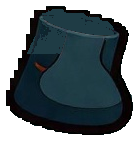
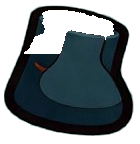
Pièces v5 du plongeur : bords lisses sans liseré, manches ouvertes sur un poignet plein, bottes et short ouverts ; script de construction complet
Claude-Session: https://claude.ai/code/session_01PeDNHubJsgLWsEd1rm9ZPJ

diff --git a/scripts/construire_plongeur.py b/scripts/construire_plongeur.py
@@ -1,0 +1,68 @@
+"""Construit les pièces finales du plongeur à partir de la planche découpée."""
+import sys, os, shutil
+import numpy as np
+from PIL import Image
+sys.path.insert(0, os.path.dirname(__file__))
+from ouvertures import masque_ouverture, morph
+from genou import couper
+
+src, dst = sys.argv[1], sys.argv[2]
+os.makedirs(dst, exist_ok=True)
+noms = {0: "tete", 1: "torse", 2: "bras_arriere", 3: "bras_avant", 4: "ceinture", 5: "main_arriere",
+        6: "main_avant", 7: "bassin", 8: "harpon", 9: "bouteille", 10: "jambe_avant", 11: "jambe_arriere",
+        12: "botte_arriere", 13: "botte_avant"}
+P = {n: os.path.join(src, f"piece_{i:02d}.png") for i, n in noms.items()}
+lire = lambda n: np.array(Image.open(P[n]).convert("RGBA")).astype(int)
+ecrire = lambda a, n: Image.fromarray(a.astype(np.uint8)).save(os.path.join(dst, n + ".png"))
+
+def trouer(a, seuil, r, haut=None):
+    m = masque_ouverture(a, seuil, r)
+    m = morph(morph(m, 5, "dil"), 5, "ero") & morph(a[..., 3] > 128, 4, "ero")
+    if haut is not None:
+        m[int(a.shape[0] * haut):] = False
+    b = a.copy(); b[m, 3] = 0
+    return b
+
+def poignet_plein(a, part=0.32):
+    """Peint le haut de la main (coupe du poignet) en peau unie, contour extérieur conservé."""
+    op = a[..., 3] > 128
+    lum = a[..., 0] * .3 + a[..., 1] * .59 + a[..., 2] * .11
+    peau = op & (lum > 120)
+    col = np.median(a[peau][:, :3], axis=0)
+    zone = morph(op, 5, "ero")
+    zone[int(a.shape[0] * part):] = False
+    b = a.copy(); b[zone, :3] = col
+    return b
+
+for n in ("main_avant", "main_arriere"):
+    ecrire(poignet_plein(lire(n)), n)
+for n in ("tete", "torse", "bouteille", "harpon"):
+    shutil.copy(P[n], os.path.join(dst, n + ".png"))
+for n in ("bras_avant", "bras_arriere"):
+    ecrire(trouer(lire(n), 22, 4), n)
+for n in ("botte_avant", "botte_arriere"):
+    ecrire(trouer(lire(n), 30, 3, haut=0.38), n)
+
+# bassin : trou de jambe transparent + ceinture coupée net sous la bande
+bas = trouer(lire("bassin"), 22, 4)
+c = lire("ceinture"); op = c[..., 3] > 128
+lum = c[..., 0] * .3 + c[..., 1] * .59 + c[..., 2] * .11
+gris = op & (abs(c[..., 0] - c[..., 2]) < 25) & (lum > 110)
+cut = np.where(gris.any(axis=1))[0].min() - 6
+c[:cut, :, 3] = 0
+for x in range(c.shape[1]):
+    ys = np.where(op[cut:, x])[0]
+    if len(ys) and ys.min() == 0:
+        c[cut:cut + 4, x, :3] = [25, 15, 10]
+belt = Image.fromarray(c.astype(np.uint8)); belt = belt.crop(belt.getbbox())
+basI = Image.fromarray(bas.astype(np.uint8))
+off = int(belt.height * 0.25)
+W = max(basI.width, belt.width); H = basI.height + off
+out = Image.new("RGBA", (W, H), (0, 0, 0, 0))
+out.paste(basI, ((W - basI.width) // 2, off), basI)
+out.paste(belt, ((W - belt.width) // 2 + 4, 0), belt)
+out.save(os.path.join(dst, "bassin_ceinture.png"))
+
+couper(P["jambe_avant"], os.path.join(dst, "cuisse_avant.png"), os.path.join(dst, "tibia_avant.png"), 0.47)
+couper(P["jambe_arriere"], os.path.join(dst, "cuisse_arriere.png"), os.path.join(dst, "tibia_arriere.png"), 0.47)
+print(sorted(os.listdir(dst)))

diff --git a/scripts/decouper.py b/scripts/decouper.py
@@ -8,9 +8,11 @@ src, out = sys.argv[1], sys.argv[2]
 img = np.asarray(Image.open(src).convert("RGB")).astype(np.int16)
 r, g, b = img[..., 0], img[..., 1], img[..., 2]
 fond = (g > r + 40) & (g > b + 40)
-alpha = np.where(fond, 0, 255).astype(np.uint8)
+# alpha progressif sur les bords (pas d'escalier)
+d = g - np.maximum(r, b)
+alpha = (np.clip((70 - d) / 40.0, 0, 1) * 255).astype(np.uint8)
 # atténue le liseré vert sur les bords
-spill = (~fond) & (g > np.maximum(r, b))
+spill = g > np.maximum(r, b)
 img[..., 1] = np.where(spill, np.maximum(r, b), g)
 
 # étiquetage des zones opaques sur une version réduite
@@ -44,7 +46,12 @@ for i, (lid, y0, y1, x0, x1) in enumerate(sorted(boites, key=lambda t: (t[1], t[
     y1, x1 = min(rgba.shape[0], y1+m), min(rgba.shape[1], x1+m)
     piece = rgba[y0:y1, x0:x1].copy()
     # garde uniquement la composante courante
-    masque = np.kron(lab == lid, np.ones((k, k), bool))[:rgba.shape[0], :rgba.shape[1]][y0:y1, x0:x1]
+    bloc = np.kron(lab == lid, np.ones((k, k), bool))[:rgba.shape[0], :rgba.shape[1]][y0:y1, x0:x1]
+    # élargit le masque de la pièce pour ne pas rogner ses bords en escalier
+    masque = bloc.copy()
+    for dy in range(-2 * k, 2 * k + 1, 2):
+        for dx in range(-2 * k, 2 * k + 1, 2):
+            masque |= np.roll(np.roll(bloc, dy, 0), dx, 1)
     piece[..., 3] = np.where(masque, piece[..., 3], 0)
     nom = f"piece_{i:02d}.png"
     Image.fromarray(piece).save(f"{out}/{nom}")
